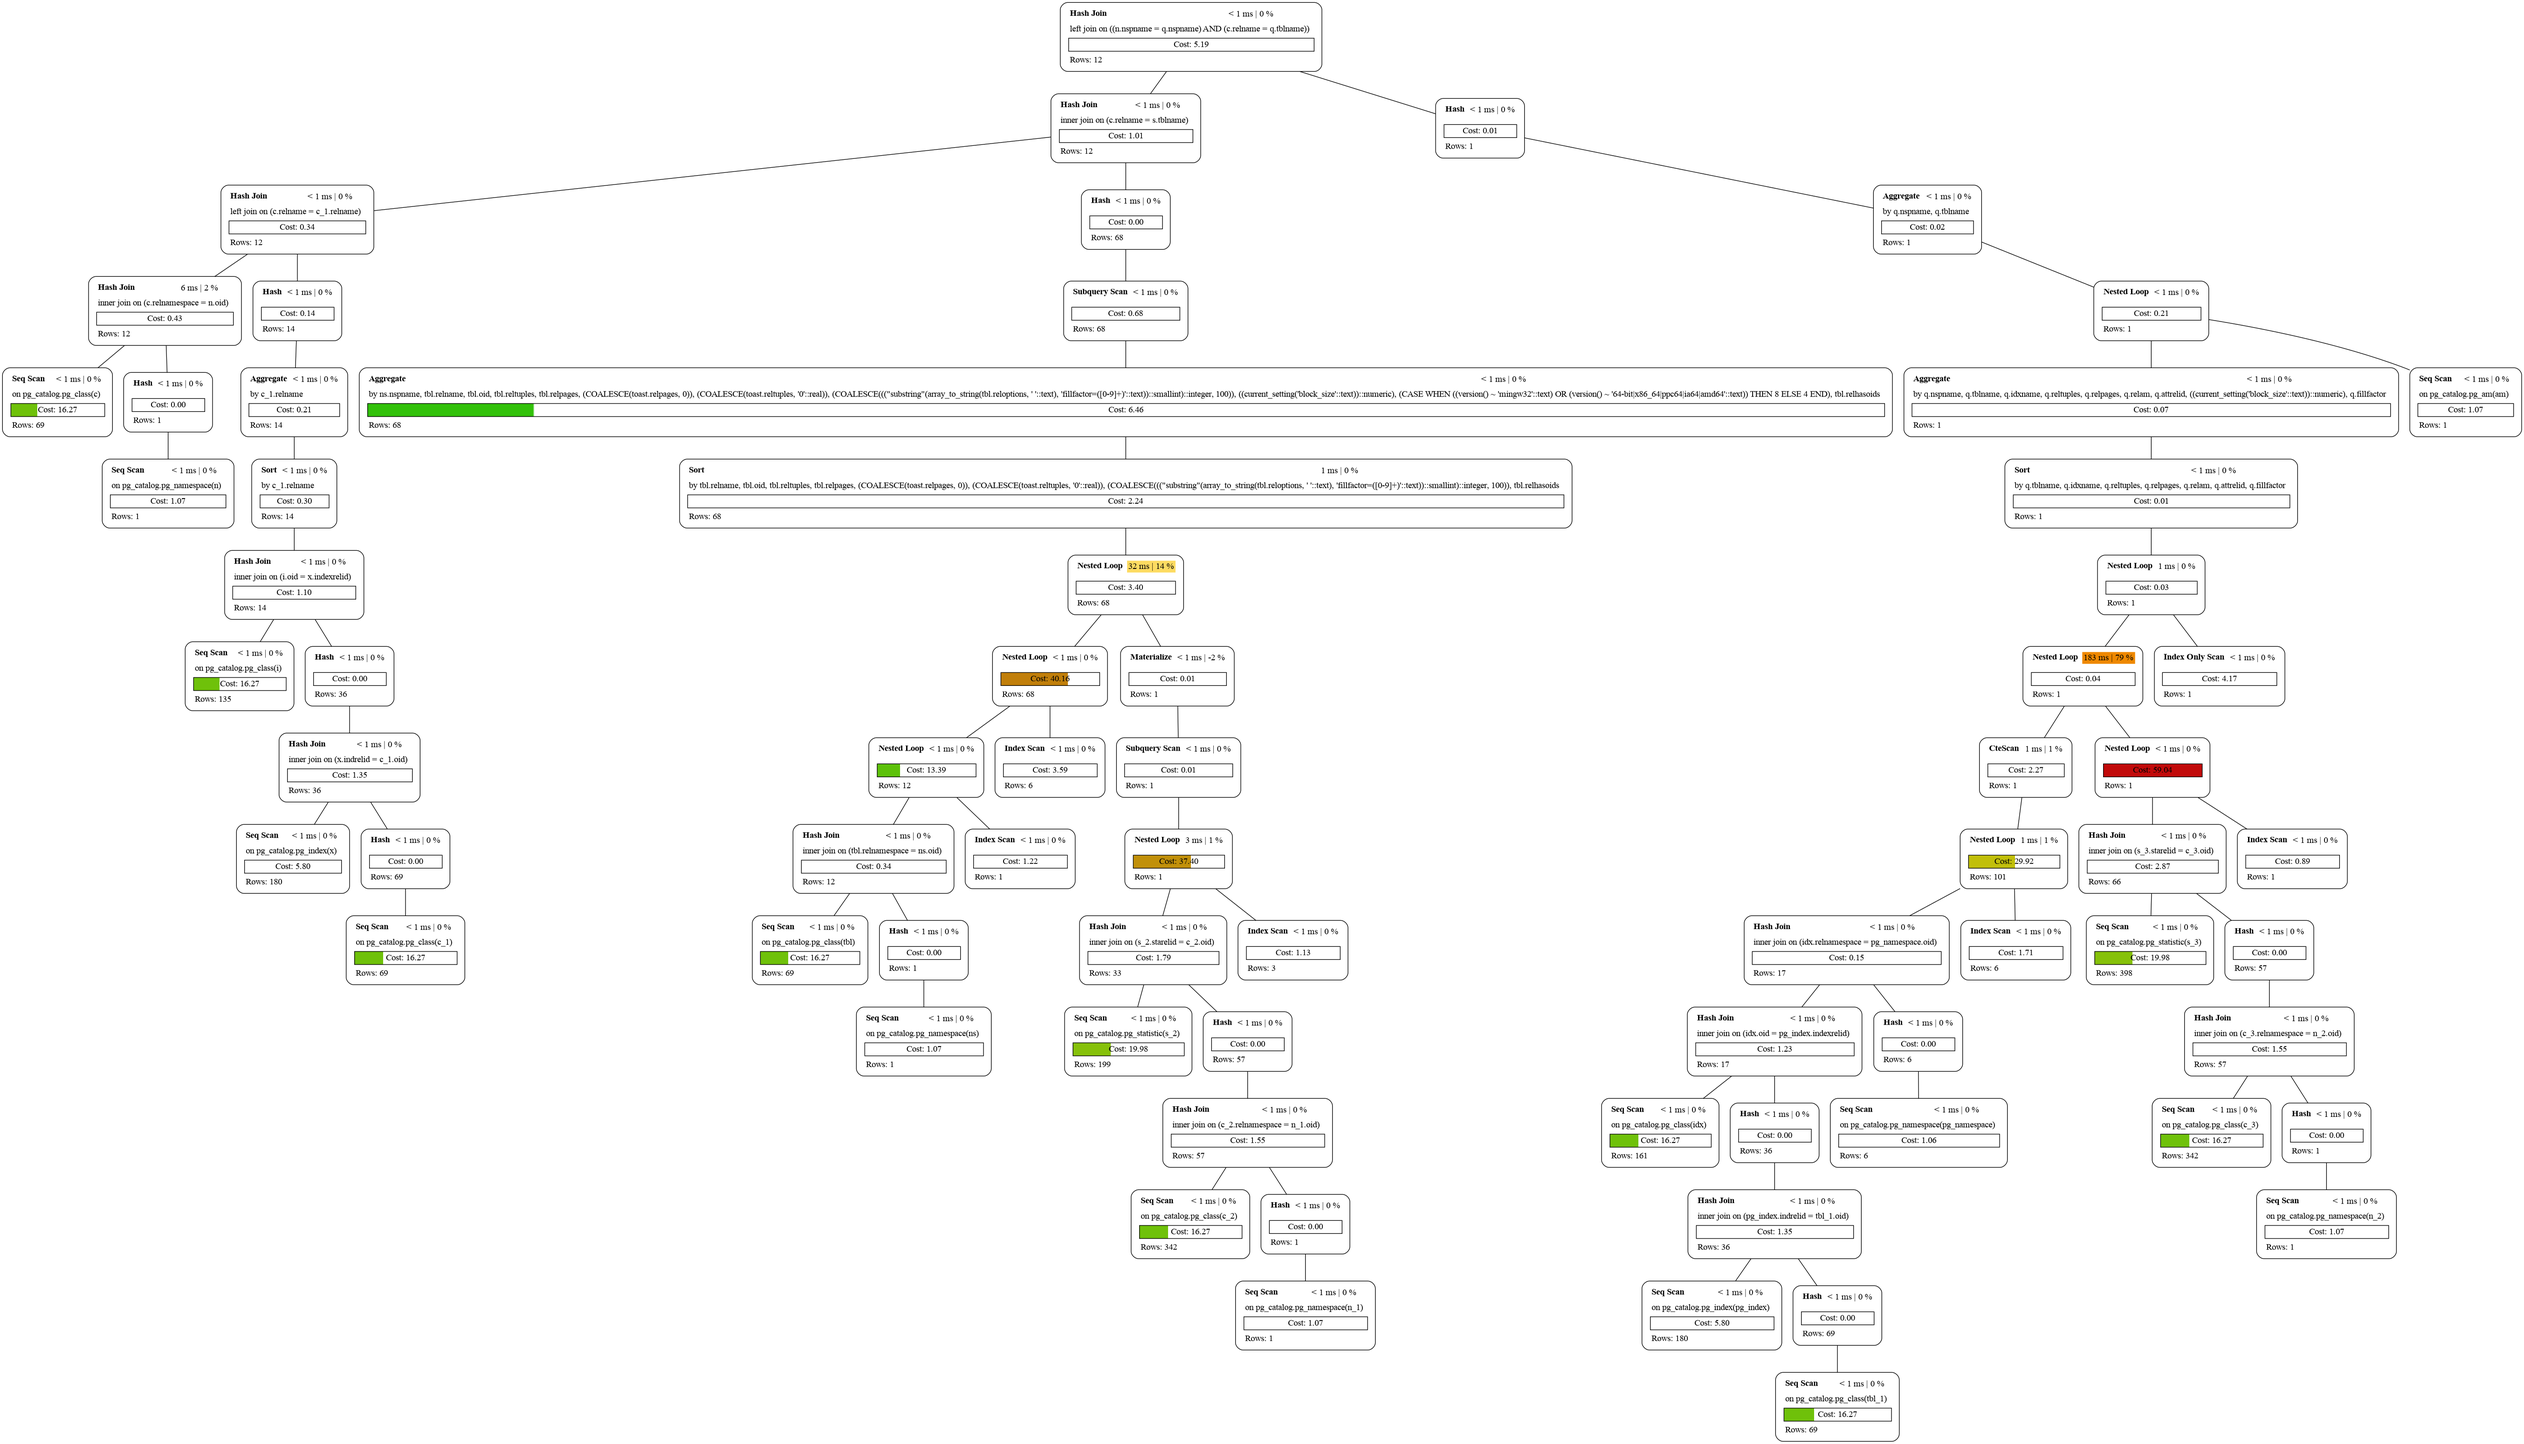
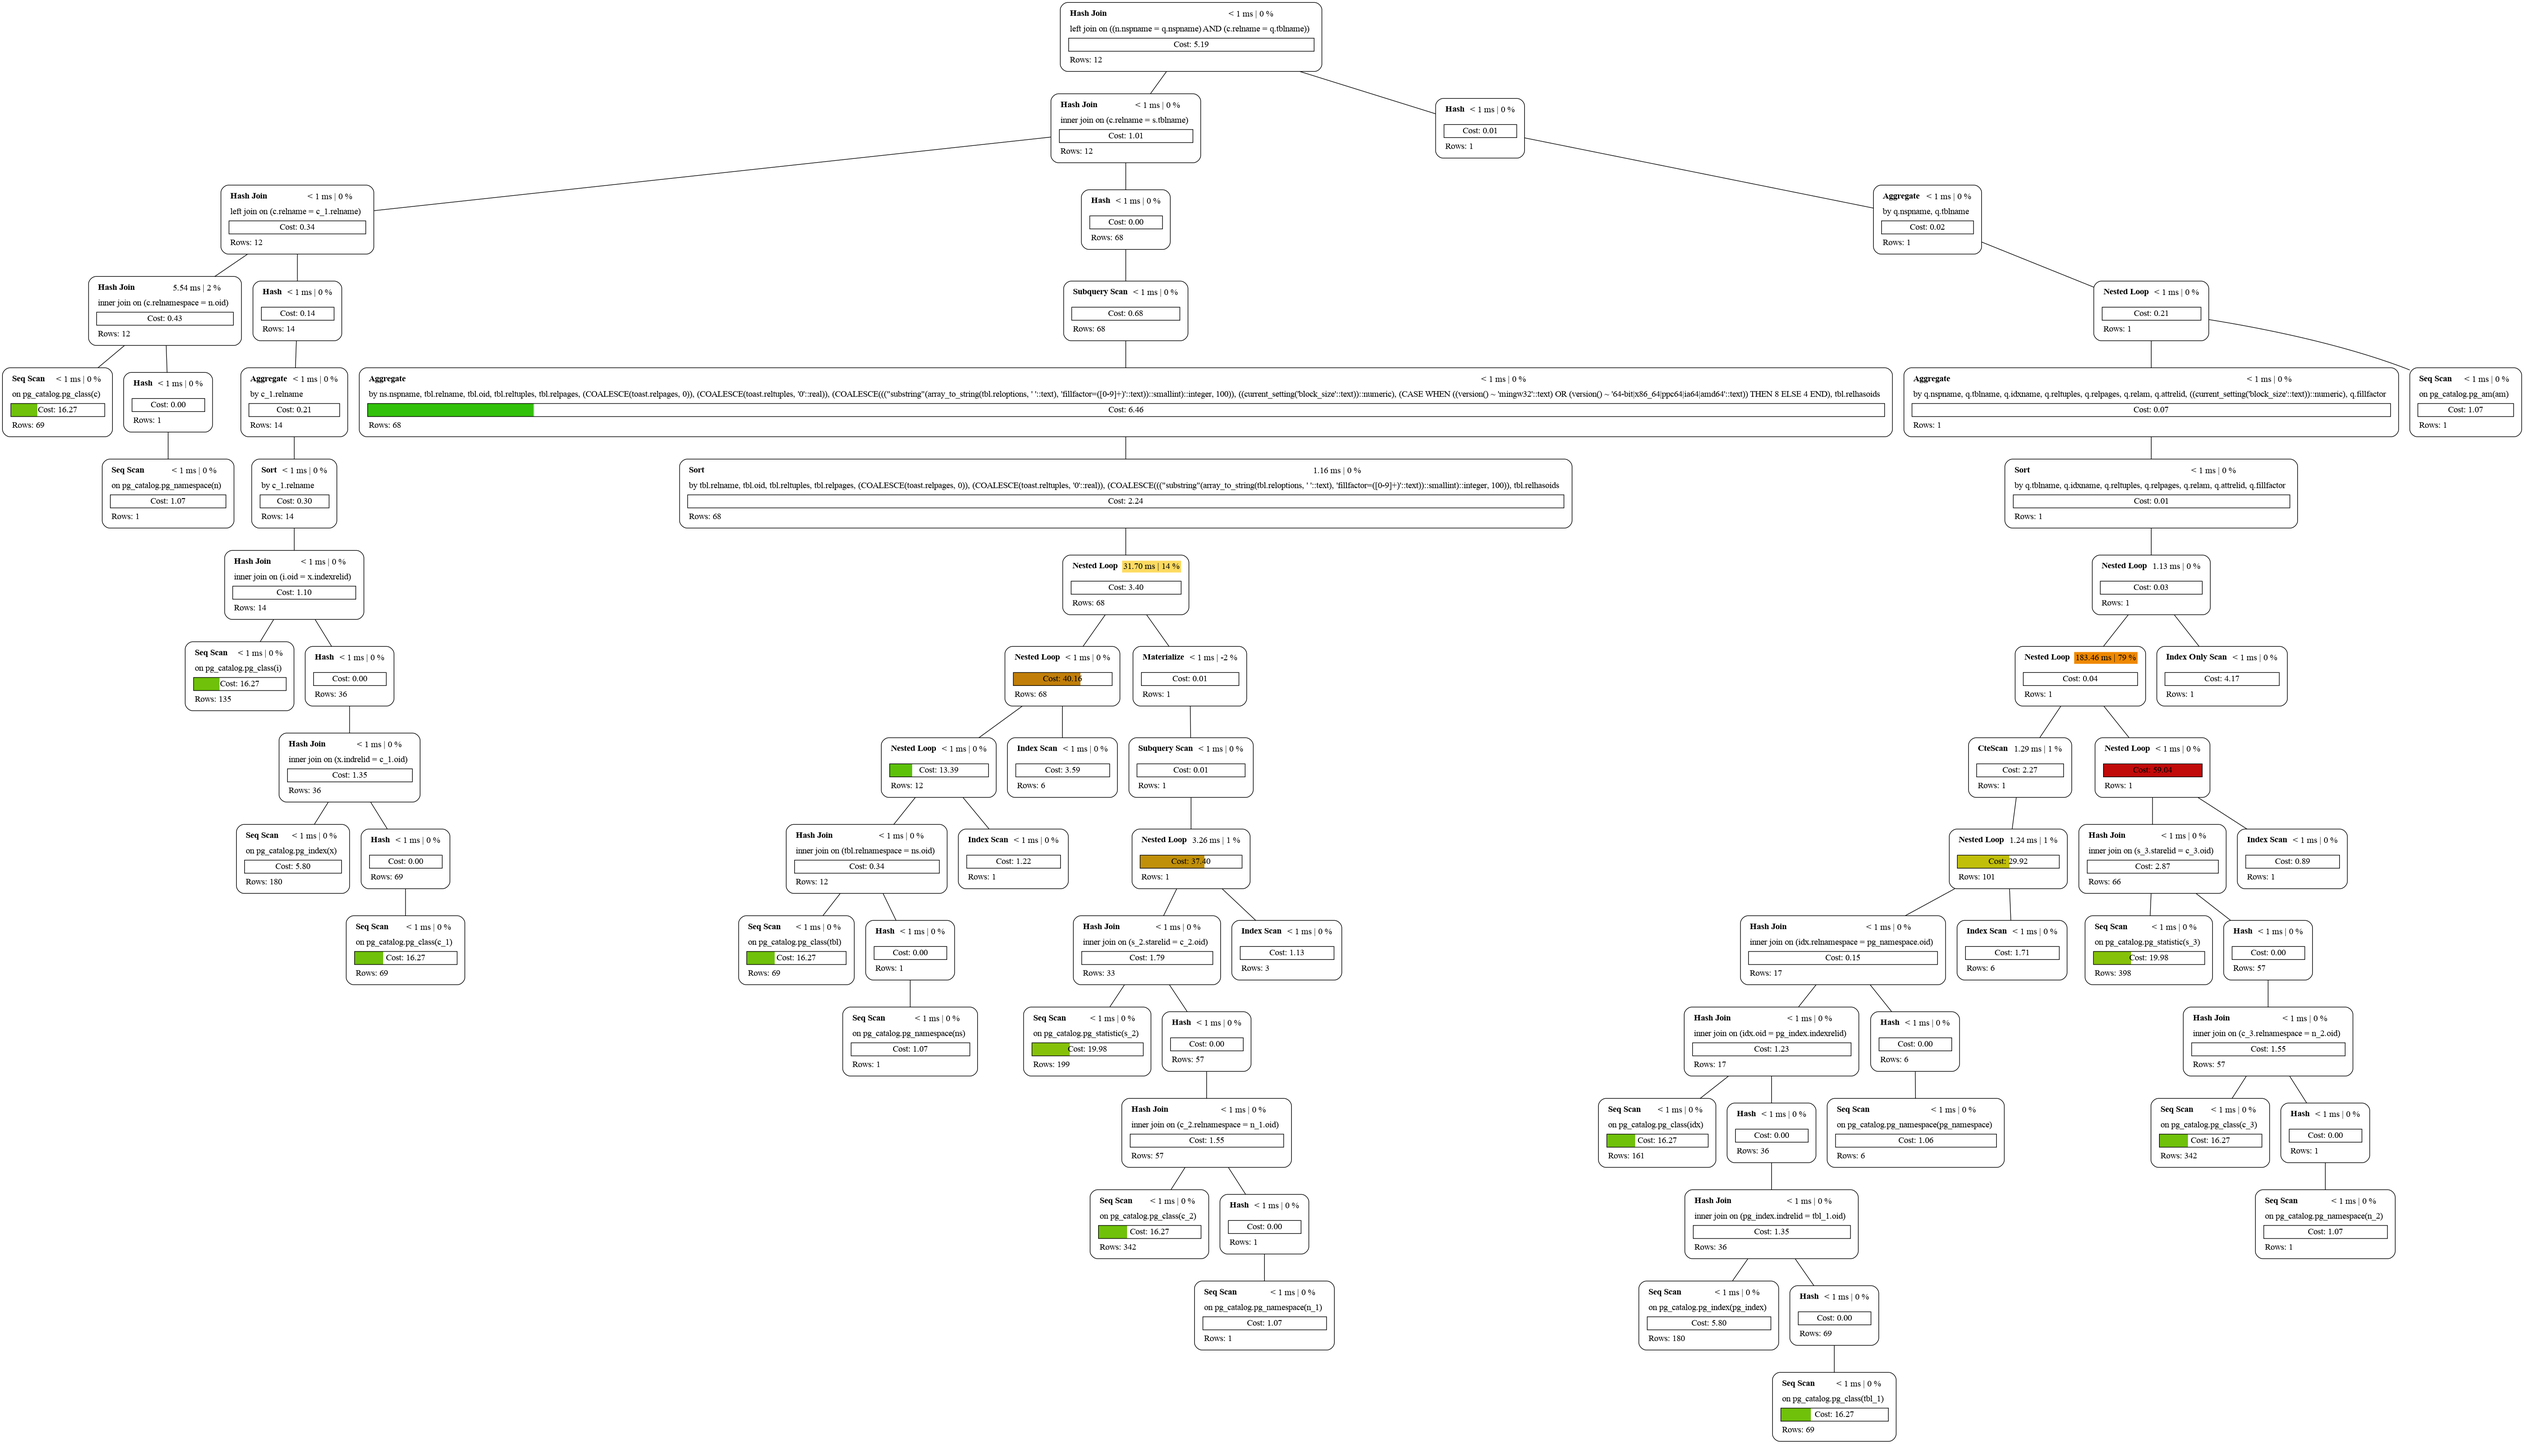
Sets time precision to 2

diff --git a/src/graph.rs b/src/graph.rs
@@ -86,10 +86,8 @@ impl Node {
                 let color = duration_color(time_percent);
 
                 format!(
-                    "<td bgcolor=\"{}\">{} ms | {} %</td>",
-                    color,
-                    time.round(),
-                    time_percent
+                    "<td bgcolor=\"{}\">{:.2} ms | {} %</td>",
+                    color, time, time_percent
                 )
             }
         } else {
